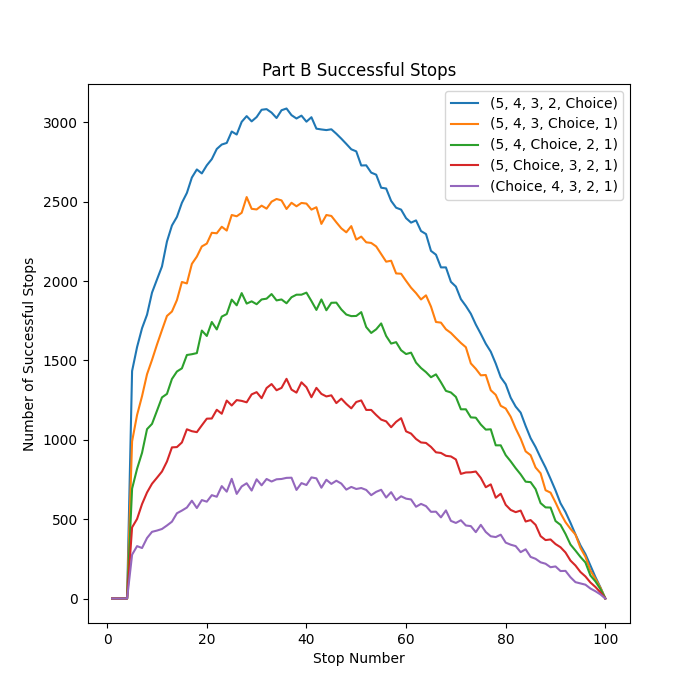
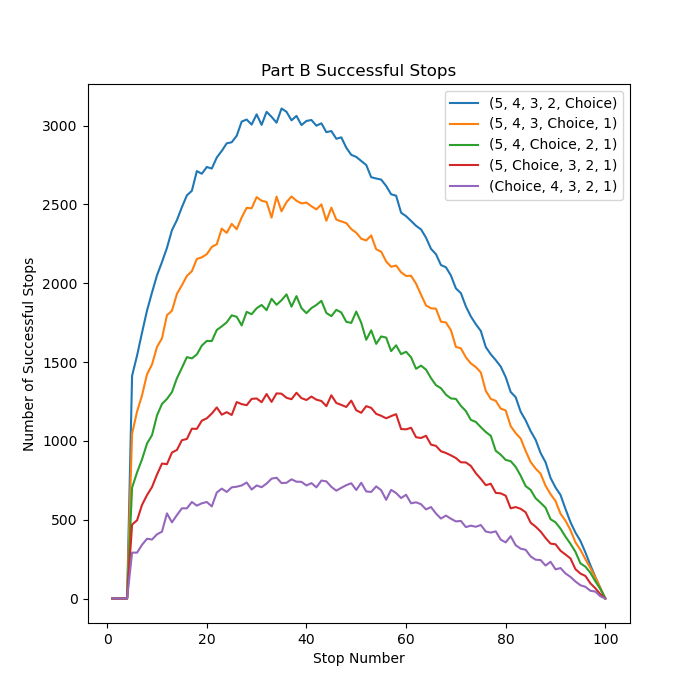
Finished first two problems on readme

diff --git a/Midterm/Problem_2_Grogan_Cody.py b/Midterm/Problem_2_Grogan_Cody.py
@@ -15,11 +15,14 @@ def getDistributions()-> t.List[float]:
     return distributions
 
 class EpsilonGreedy():
-    def __init__(self, epsilon: float, distibutionGen: t.Callable[[], t.List[float]], baseline: t.Callable[[], float], minSteps: int):
+    def __init__(self, epsilon: float, distibutionGen: t.Callable[[], t.List[float]], baseline: t.Callable[[], float]):
         self.epsilon = epsilon
         self.distributionGen = distibutionGen
         self.probLength = len(self.distributionGen())
         self.baseline = baseline
+        
+    
+    def stepN(self, steps: int):
         self.q = [[0,0,0,0,0]]
         self.qTemporal = np.zeros(5)
         self.n = np.zeros(5)
@@ -27,15 +30,9 @@ class EpsilonGreedy():
         self.picks = [np.zeros(5)]
         self.stepCount = 0
         self.numberOfPicks = 0
-        self.minSteps = minSteps
-
-    def stepTillConvergence(self):
-        while True:
+        
+        for i in range(steps):
             self.step()
-            if self.stepCount > self.minSteps and self.picks[-1][np.argmax(self.picks[-1])] > 0.5:
-                break
-
-                    
 
     def step(self):
         self.stepCount += 1
@@ -63,8 +60,8 @@ class EpsilonGreedy():
             self.picks.append(np.array([n / self.numberOfPicks for n in self.n]))
 
         else:
-            self.q.append(self.q[-1])
-            self.picks.append(self.picks[-1])
+            self.q.append(self.q[-1].copy())
+            self.picks.append(self.picks[-1].copy())
 
     def getQ(self):
         x = range(len(self.q))
@@ -90,18 +87,25 @@ class EpsilonGreedy():
         return a / b
     
 def plotArrays(figTitle: str, titles: t.List[str], x: t.List[int], arrays: t.List[t.List[float]], yLabel: str = "Y", xLabel: str = "X"):
-    fig, ax = plt.subplots(figsize=(7,7))
-    numberOfLines = len(arrays)
+    fig, ax = plt.subplots(1, 2, figsize=(10, 5))
+    numberOfLines = len(arrays[0])
     colormap = plt.cm.nipy_spectral
-    ax.set_prop_cycle("color", [colormap(i) for i in np.linspace(0, 1, numberOfLines)])
-    ax.set_title(figTitle)
-    ax.set_xlabel(xLabel)
-    ax.set_ylabel(yLabel)
-
-    for i in range(len(arrays)):
-        ax.plot(x, arrays[i])
     
-    ax.legend(titles)
+    for i in range(len(arrays)):
+        ax[i].set_prop_cycle("color", [colormap(i) for i in np.linspace(0, 1, numberOfLines)])
+        ax[i].set_title(figTitle)
+        ax[i].set_xlabel(xLabel)
+        ax[i].set_ylabel(yLabel[i])
+        ax[i].legend(titles)
+        
+    for array in arrays[0]:
+        ax[0].plot(x, array)
+    
+    for array in arrays[1]:
+        ax[1].plot(x, array)
+    
+    
+    fig.savefig(("Figures/Problem_2_" + figTitle + ".png").replace(" ", "_"))
 
 def baseline1():
     return float('-inf')
@@ -109,22 +113,32 @@ def baseline1():
 def baseline2():
     return max(np.random.normal(1.5, 3), 0)
 
-def simulate(baseline: t.Callable[[], float], epsilon: float, minSteps: int, figTitle: str):
+def simulate(baseline: t.Callable[[], float], epsilon: float, figTitle: str):
     distributions = getDistributions
-    greedy = EpsilonGreedy(epsilon, distributions, baseline, minSteps)
+    greedy = EpsilonGreedy(epsilon, distributions, baseline)
+    episodes = 300
+    steps = 500
+        
+    overallQ = np.zeros((5, steps+1))
+    overallP = np.zeros((5, steps+1))
+    for i in range(episodes):
+        greedy.stepN(steps)
+        x, q = greedy.getQ()
+        x_1, p = greedy.getPercentPicks()
+        overallQ += q
+        overallP += p
 
-    greedy.stepTillConvergence()
+    overallQ /= episodes
+    overallP /= episodes
 
-    x, q = greedy.getQ()
-    x_1, p_1 = greedy.getPercentPicks()
-
-
-    plotArrays(figTitle, ["beta(7,3) + 2", "uniform(0,4)", "beta(3,7) + 2", "normal(2,1.4)", "normal(1.3, 7)"], x, q, "% Picks", "Steps")
+    plotArrays(figTitle, ["beta(7,3) + 2", "uniform(0,4)", "beta(3,7) + 2", "normal(2,1.4)", "normal(1.3, 7)"], range(steps+1), [overallQ, overallP], ["Q value", "% picked"], "Steps")
+    print(f"Total days: {greedy.stepCount}, Total skipped days: {greedy.stepCount - greedy.numberOfPicks}")
+    
     plt.show()
 
 
 if __name__ == "__main__":
-    simulate(baseline1, 0.1, 100, figTitle="Problem 1")
-    simulate(baseline2, 0.2, 1000, figTitle="Problem 2")
+    simulate(baseline1, 0.1, figTitle="Part A")
+    simulate(baseline2, 0.1, figTitle="Part B")
 
 

diff --git a/Midterm/Problem_1_Grogan_Cody.py b/Midterm/Problem_1_Grogan_Cody.py
@@ -122,17 +122,14 @@ def runSim(plotTitle: str, rejectPercent: float, rejectDrift: float):
 
     max = np.argmax([successfulStops1[argMaxIndices[0]], successfulStops2[argMaxIndices[1]], successfulStops3[argMaxIndices[2]], successfulStops4[argMaxIndices[3]], successfulStops5[argMaxIndices[4]]])
 
-    print(f'Best Buffer is {titles[max]} with {successfulStops[max][argMaxIndices[max]]/numTrials:.4f} success rate at {argMaxIndices[max]/numElements * 100:.2f} % of applicants.')
-
-     
-
-    plt.show()
+    print(f'Best Buffer is {titles[max]} with {successfulStops[max][argMaxIndices[max]]/numTrials * 100:.4f} success rate at {argMaxIndices[max]/numElements * 100:.2f} % of applicants.')
 
 
 
 def main():
     runSim("Part A Successful Stops", 0.5, 0.0)
     runSim("Part B Successful Stops", 0.2, .15)
+    plt.show()
     
 
 if __name__ == "__main__":

diff --git a/Midterm/README.md b/Midterm/README.md
@@ -1,0 +1,14 @@
+# Problem 1
+
+For this problem I used the vanilla stopping rule of forming an expectation from 0 to stop number and then stopping
+the search when the current number exceeded the expectation. The slight twist I added was the addition of what I call
+a 'buffer' which contains 5 candidates. Using this buffer I can control where the candidate that exceeded the expectation
+is. For example, (1, 2, Choice, 4, 5) means that the algorithm looked 2 additional candidates more than the candidate
+that exceeded the expectation.
+
+## Run the Code
+
+To run this code, all that needs to be done is run the python with the prefix Problem_1 the following should be outputted:
+
+* Graph with rejection rate of 50%
+* Best buffer, 
